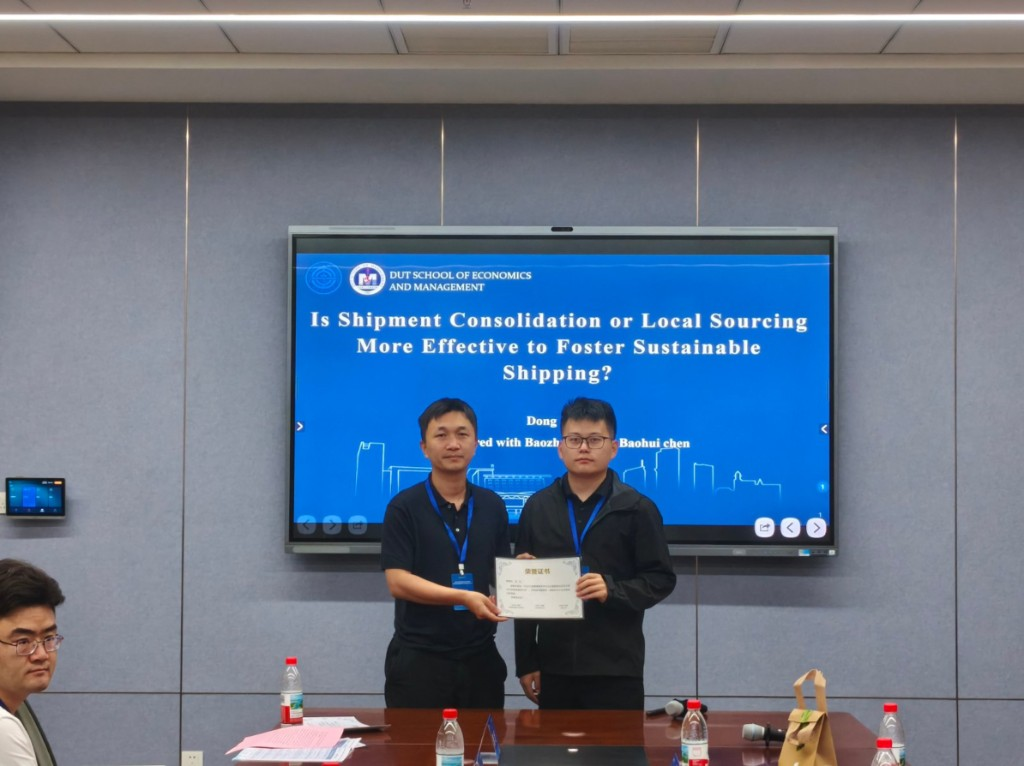
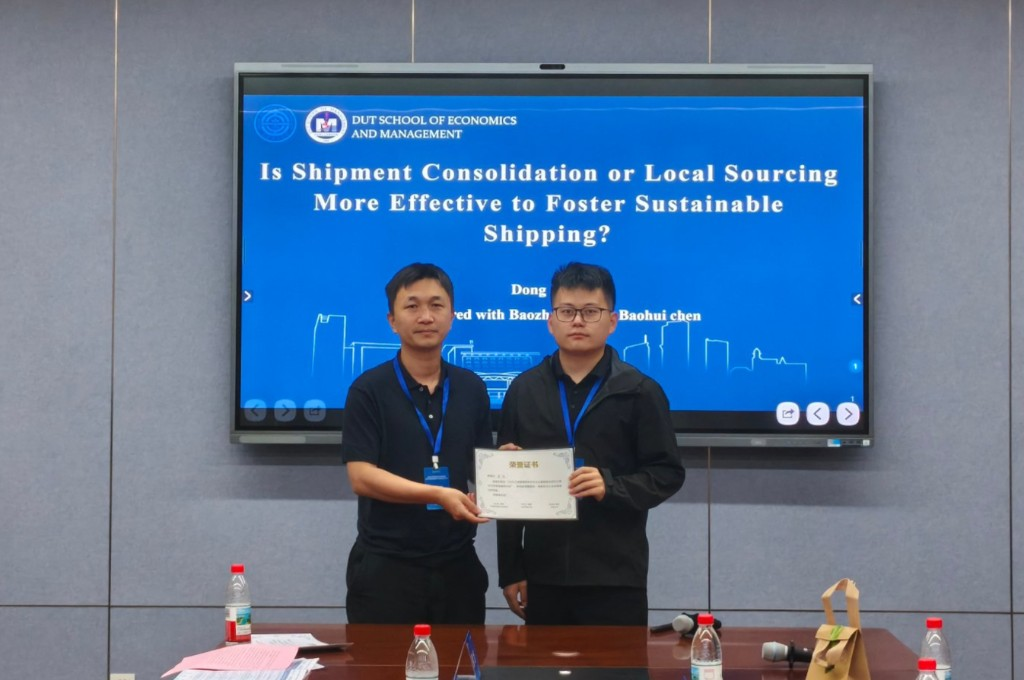
Replace Wuhan forum cover photo and update join-page research domains.

diff --git a/join.html b/join.html
@@ -18,7 +18,7 @@
 <body>
   <header><nav><a href="index.html" class="logo"><img src="images/hku-logo.png" alt="The University of Hong Kong" class="site-logo" width="41" height="46" style="width:41px;height:46px;max-width:41px;max-height:46px"></a><div class="menu-toggle" id="menu-toggle-btn">&#9776;</div><ul class="nav-links" id="nav-links-menu"><li><a href="index.html#intro">About</a></li><li><a href="index.html#team">Team</a></li><li><a href="dfs.html">Stream I: DfS</a></li><li><a href="dfma.html">Stream II: DfMA</a></li><li><a href="news/index.html">News</a></li><li><a href="join.html">Join the Team</a></li><li><a href="join_cn.html" class="language-switch">繁体</a></li><li><a href="join_sc.html" class="language-switch language-switch--alt">简体</a></li></ul></nav></header>
   <main>
-    <section class="section join-section--first"><div class="container"><h1 class="section-title">Join the Team</h1><p class="section-subtitle">We welcome students and researchers interested in design engineering and digital construction.</p><div class="join-panel"><p>We are recruiting <strong>PhD</strong> candidates in our two research domains.</p><p class="join-panel__label">Funding &amp; Scholarships for PhD Applicants:</p><ul><li><strong>Fellowship Package (Hong Kong PhD Fellowship Scheme + HKU President's Scholarship):</strong> HK$1.7 million. <a href="https://gradsch.hku.hk/prospective_students/fees_scholarships_and_financial_support/hong_kong_phd_fellowship_scheme" target="_blank" rel="noopener noreferrer">Details</a></li><li><strong>Standard Package (Postgraduate Scholarship):</strong> HK$904,000. <a href="https://gradsch.hku.hk/prospective_students/fees_scholarships_and_financial_support/postgraduate_scholarships" target="_blank" rel="noopener noreferrer">Details</a></li></ul><p class="join-panel__label">Research Domains:</p><ul><li><strong>Domain 1: Design for Safety</strong></li><li><strong>Domain 2: Design for Manufacture and Assembly</strong></li></ul><p>We are open to exploring new research directions and innovative methodologies within these two domains.</p><p>More requirements about academic merit can be found at the <a href="https://gradsch.hku.hk/" target="_blank" rel="noopener noreferrer">HKU Graduate School</a>. To express interest, please <a href="index.html#contact">contact us</a>.</p><p class="join-note"><strong>Note:</strong> For employed positions such as Research Assistant or Postdoctoral Fellow, we recommend applying through a supervisor referral or including a reference letter with your application.</p></div></div></section>
+    <section class="section join-section--first"><div class="container"><h1 class="section-title">Join the Team</h1><p class="section-subtitle">We welcome students and researchers interested in design engineering and digital construction.</p><div class="join-panel"><p>We are recruiting <strong>PhD</strong> candidates in our two research domains.</p><p class="join-panel__label">Funding &amp; Scholarships for PhD Applicants:</p><ul><li><strong>Fellowship Package (Hong Kong PhD Fellowship Scheme + HKU President's Scholarship):</strong> HK$1.7 million. <a href="https://gradsch.hku.hk/prospective_students/fees_scholarships_and_financial_support/hong_kong_phd_fellowship_scheme" target="_blank" rel="noopener noreferrer">Details</a></li><li><strong>Standard Package (Postgraduate Scholarship):</strong> HK$904,000. <a href="https://gradsch.hku.hk/prospective_students/fees_scholarships_and_financial_support/postgraduate_scholarships" target="_blank" rel="noopener noreferrer">Details</a></li></ul><p class="join-panel__label">Research Domains:</p><ul><li><strong>Domain 1: Computational Design and Planning</strong></li><li><strong>Domain 2: Design and Construction Management</strong></li></ul><p>We are open to exploring new research directions and innovative methodologies within these two domains.</p><p>More requirements about academic merit can be found at the <a href="https://gradsch.hku.hk/" target="_blank" rel="noopener noreferrer">HKU Graduate School</a>. To express interest, please <a href="index.html#contact">contact us</a>.</p><p class="join-note"><strong>Note:</strong> For employed positions such as Research Assistant or Postdoctoral Fellow, we recommend applying through a supervisor referral or including a reference letter with your application.</p></div></div></section>
   </main>
   <footer><div class="container"><p>&copy; 2026 Prof Tan Tan's Research Group · The University of Hong Kong</p></div></footer><div class="menu-overlay" id="menu-overlay"></div><a href="#" class="back-to-top" id="back-to-top-btn">&uarr;</a>
   <script>const t=document.getElementById('menu-toggle-btn'),o=document.getElementById('menu-overlay');function c(){document.body.classList.remove('menu-open')}t.addEventListener('click',()=>document.body.classList.toggle('menu-open'));o.addEventListener('click',c);document.querySelectorAll('#nav-links-menu a').forEach(a=>a.addEventListener('click',c));const b=document.getElementById('back-to-top-btn');window.addEventListener('scroll',()=>{window.scrollY>400?b.classList.add('show'):b.classList.remove('show')});</script>

diff --git a/join_cn.html b/join_cn.html
@@ -18,7 +18,7 @@
 <body>
   <header><nav><a href="index_cn.html" class="logo"><img src="images/hku-logo.png" alt="The University of Hong Kong" class="site-logo" width="41" height="46" style="width:41px;height:46px;max-width:41px;max-height:46px"></a><div class="menu-toggle" id="menu-toggle-btn">&#9776;</div><ul class="nav-links" id="nav-links-menu"><li><a href="index_cn.html#intro">關於我們</a></li><li><a href="index_cn.html#team">團隊</a></li><li><a href="dfs_cn.html">主线一：建築安全設計</a></li><li><a href="dfma_cn.html">主线二：面向製造與裝配的設計</a></li><li><a href="news/index_cn.html">動態</a></li><li><a href="join_cn.html">加入團隊</a></li><li><a href="join.html" class="language-switch">English</a></li><li><a href="join_sc.html" class="language-switch language-switch--alt">简体</a></li></ul></nav></header>
   <main>
-    <section class="section join-section--first"><div class="container"><h1 class="section-title">加入團隊</h1><p class="section-subtitle">我們歡迎有志於設計工程與數字建造研究的同學與研究人員加入。</p><div class="join-panel"><p>我們現招收<strong>博士研究生</strong>，歡迎關注以下兩個研究領域。</p><p class="join-panel__label">博士申請人資助及獎學金：</p><ul><li><strong>香港博士研究生獎學金計劃 (HKPFS) 及 香港大學校長博士學者獎 (HKU-PS)：</strong>170萬港元。<a href="https://gradsch.hku.hk/prospective_students/fees_scholarships_and_financial_support/hong_kong_phd_fellowship_scheme" target="_blank" rel="noopener noreferrer">詳情</a></li><li><strong>研究生獎學金 (PGS)：</strong>90.4萬港元。<a href="https://gradsch.hku.hk/prospective_students/fees_scholarships_and_financial_support/postgraduate_scholarships" target="_blank" rel="noopener noreferrer">詳情</a></li></ul><p class="join-panel__label">研究領域：</p><ul><li><strong>領域一：建築安全設計</strong></li><li><strong>領域二：面向製造與裝配設計</strong></li></ul><p>我們歡迎在這兩個領域內探索新的研究方向和創新方法論。</p><p>更多關於學術成績的要求，可在<a href="https://gradsch.hku.hk/" target="_blank" rel="noopener noreferrer">香港大學研究生院</a>網站查閱。如有意向，亦可透過<a href="index_cn.html#contact">聯絡我們</a>與譚坦博士洽談。</p><p class="join-note"><strong>備註：</strong>研究助理、博士後研究員等受聘職位，建議由導師推薦，或在申請時附上推薦信。</p></div></div></section>
+    <section class="section join-section--first"><div class="container"><h1 class="section-title">加入團隊</h1><p class="section-subtitle">我們歡迎有志於設計工程與數字建造研究的同學與研究人員加入。</p><div class="join-panel"><p>我們現招收<strong>博士研究生</strong>，歡迎關注以下兩個研究領域。</p><p class="join-panel__label">博士申請人資助及獎學金：</p><ul><li><strong>香港博士研究生獎學金計劃 (HKPFS) 及 香港大學校長博士學者獎 (HKU-PS)：</strong>170萬港元。<a href="https://gradsch.hku.hk/prospective_students/fees_scholarships_and_financial_support/hong_kong_phd_fellowship_scheme" target="_blank" rel="noopener noreferrer">詳情</a></li><li><strong>研究生獎學金 (PGS)：</strong>90.4萬港元。<a href="https://gradsch.hku.hk/prospective_students/fees_scholarships_and_financial_support/postgraduate_scholarships" target="_blank" rel="noopener noreferrer">詳情</a></li></ul><p class="join-panel__label">研究領域：</p><ul><li><strong>領域一：計算設計與規劃</strong></li><li><strong>領域二：設計與建造管理</strong></li></ul><p>我們歡迎在這兩個領域內探索新的研究方向和創新方法論。</p><p>更多關於學術成績的要求，可在<a href="https://gradsch.hku.hk/" target="_blank" rel="noopener noreferrer">香港大學研究生院</a>網站查閱。如有意向，亦可透過<a href="index_cn.html#contact">聯絡我們</a>與譚坦博士洽談。</p><p class="join-note"><strong>備註：</strong>研究助理、博士後研究員等受聘職位，建議由導師推薦，或在申請時附上推薦信。</p></div></div></section>
   </main>
   <footer><div class="container"><p>&copy; 2026 譚坦助理教授研究團隊 · 香港大學</p></div></footer><div class="menu-overlay" id="menu-overlay"></div><a href="#" class="back-to-top" id="back-to-top-btn">&uarr;</a>
   <script>const t=document.getElementById('menu-toggle-btn'),o=document.getElementById('menu-overlay');function c(){document.body.classList.remove('menu-open')}t.addEventListener('click',()=>document.body.classList.toggle('menu-open'));o.addEventListener('click',c);document.querySelectorAll('#nav-links-menu a').forEach(a=>a.addEventListener('click',c));const b=document.getElementById('back-to-top-btn');window.addEventListener('scroll',()=>{window.scrollY>400?b.classList.add('show'):b.classList.remove('show')});</script>

diff --git a/join_sc.html b/join_sc.html
@@ -18,7 +18,7 @@
 <body>
   <header><nav><a href="index_sc.html" class="logo"><img src="images/hku-logo.png" alt="The University of Hong Kong" class="site-logo" width="41" height="46" style="width:41px;height:46px;max-width:41px;max-height:46px"></a><div class="menu-toggle" id="menu-toggle-btn">&#9776;</div><ul class="nav-links" id="nav-links-menu"><li><a href="index_sc.html#intro">关于我们</a></li><li><a href="index_sc.html#team">团队</a></li><li><a href="dfs_sc.html">主线一：建筑安全设计</a></li><li><a href="dfma_sc.html">主线二：面向制造与装配的设计</a></li><li><a href="news/index_sc.html">动态</a></li><li><a href="join_sc.html">加入团队</a></li><li><a href="join.html" class="language-switch">English</a></li><li><a href="join_cn.html" class="language-switch language-switch--alt">繁体</a></li></ul></nav></header>
   <main>
-    <section class="section join-section--first"><div class="container"><h1 class="section-title">加入团队</h1><p class="section-subtitle">我们欢迎有志于设计工程与数字建造研究的同学与研究人员加入。</p><div class="join-panel"><p>我们现招收<strong>博士研究生</strong>，欢迎关注以下两个研究领域。</p><p class="join-panel__label">博士申请人资助及奖学金：</p><ul><li><strong>香港博士研究生奖学金计划 (HKPFS) 及 香港大学校长博士学者奖 (HKU-PS)：</strong>170万港元。<a href="https://gradsch.hku.hk/prospective_students/fees_scholarships_and_financial_support/hong_kong_phd_fellowship_scheme" target="_blank" rel="noopener noreferrer">详情</a></li><li><strong>研究生奖学金 (PGS)：</strong>90.4万港元。<a href="https://gradsch.hku.hk/prospective_students/fees_scholarships_and_financial_support/postgraduate_scholarships" target="_blank" rel="noopener noreferrer">详情</a></li></ul><p class="join-panel__label">研究领域：</p><ul><li><strong>领域一：建筑安全设计</strong></li><li><strong>领域二：面向制造与装配设计</strong></li></ul><p>我们欢迎在这两个领域内探索新的研究方向和创新方法论。</p><p>更多关于学术成绩的要求，可在<a href="https://gradsch.hku.hk/" target="_blank" rel="noopener noreferrer">香港大学研究生院</a>网站查阅。如有意向，亦可透过<a href="index_sc.html#contact">联络我们</a>与谭坦博士洽谈。</p><p class="join-note"><strong>备注：</strong>研究助理、博士后研究员等受聘职位，建议由导师推荐，或在申请时附上推荐信。</p></div></div></section>
+    <section class="section join-section--first"><div class="container"><h1 class="section-title">加入团队</h1><p class="section-subtitle">我们欢迎有志于设计工程与数字建造研究的同学与研究人员加入。</p><div class="join-panel"><p>我们现招收<strong>博士研究生</strong>，欢迎关注以下两个研究领域。</p><p class="join-panel__label">博士申请人资助及奖学金：</p><ul><li><strong>香港博士研究生奖学金计划 (HKPFS) 及 香港大学校长博士学者奖 (HKU-PS)：</strong>170万港元。<a href="https://gradsch.hku.hk/prospective_students/fees_scholarships_and_financial_support/hong_kong_phd_fellowship_scheme" target="_blank" rel="noopener noreferrer">详情</a></li><li><strong>研究生奖学金 (PGS)：</strong>90.4万港元。<a href="https://gradsch.hku.hk/prospective_students/fees_scholarships_and_financial_support/postgraduate_scholarships" target="_blank" rel="noopener noreferrer">详情</a></li></ul><p class="join-panel__label">研究领域：</p><ul><li><strong>领域一：计算设计与规划</strong></li><li><strong>领域二：设计与建造管理</strong></li></ul><p>我们欢迎在这两个领域内探索新的研究方向和创新方法论。</p><p>更多关于学术成绩的要求，可在<a href="https://gradsch.hku.hk/" target="_blank" rel="noopener noreferrer">香港大学研究生院</a>网站查阅。如有意向，亦可透过<a href="index_sc.html#contact">联络我们</a>与谭坦博士洽谈。</p><p class="join-note"><strong>备注：</strong>研究助理、博士后研究员等受聘职位，建议由导师推荐，或在申请时附上推荐信。</p></div></div></section>
   </main>
   <footer><div class="container"><p>&copy; 2026 谭坦助理教授研究团队 · 香港大学</p></div></footer><div class="menu-overlay" id="menu-overlay"></div><a href="#" class="back-to-top" id="back-to-top-btn">&uarr;</a>
   <script>const t=document.getElementById('menu-toggle-btn'),o=document.getElementById('menu-overlay');function c(){document.body.classList.remove('menu-open')}t.addEventListener('click',()=>document.body.classList.toggle('menu-open'));o.addEventListener('click',c);document.querySelectorAll('#nav-links-menu a').forEach(a=>a.addEventListener('click',c));const b=document.getElementById('back-to-top-btn');window.addEventListener('scroll',()=>{window.scrollY>400?b.classList.add('show'):b.classList.remove('show')});</script>
